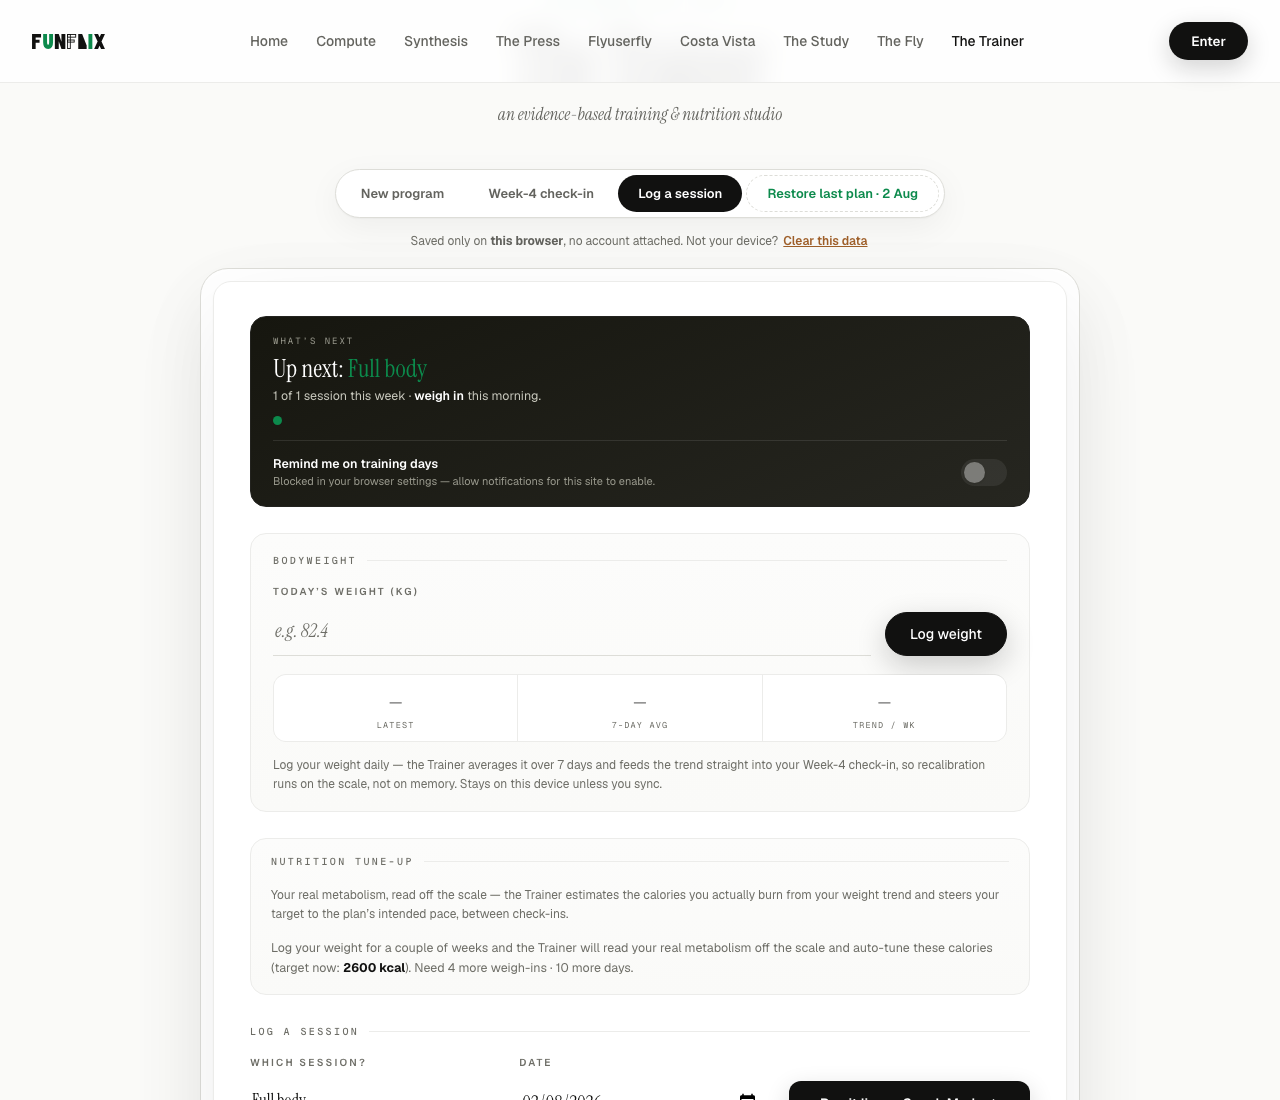
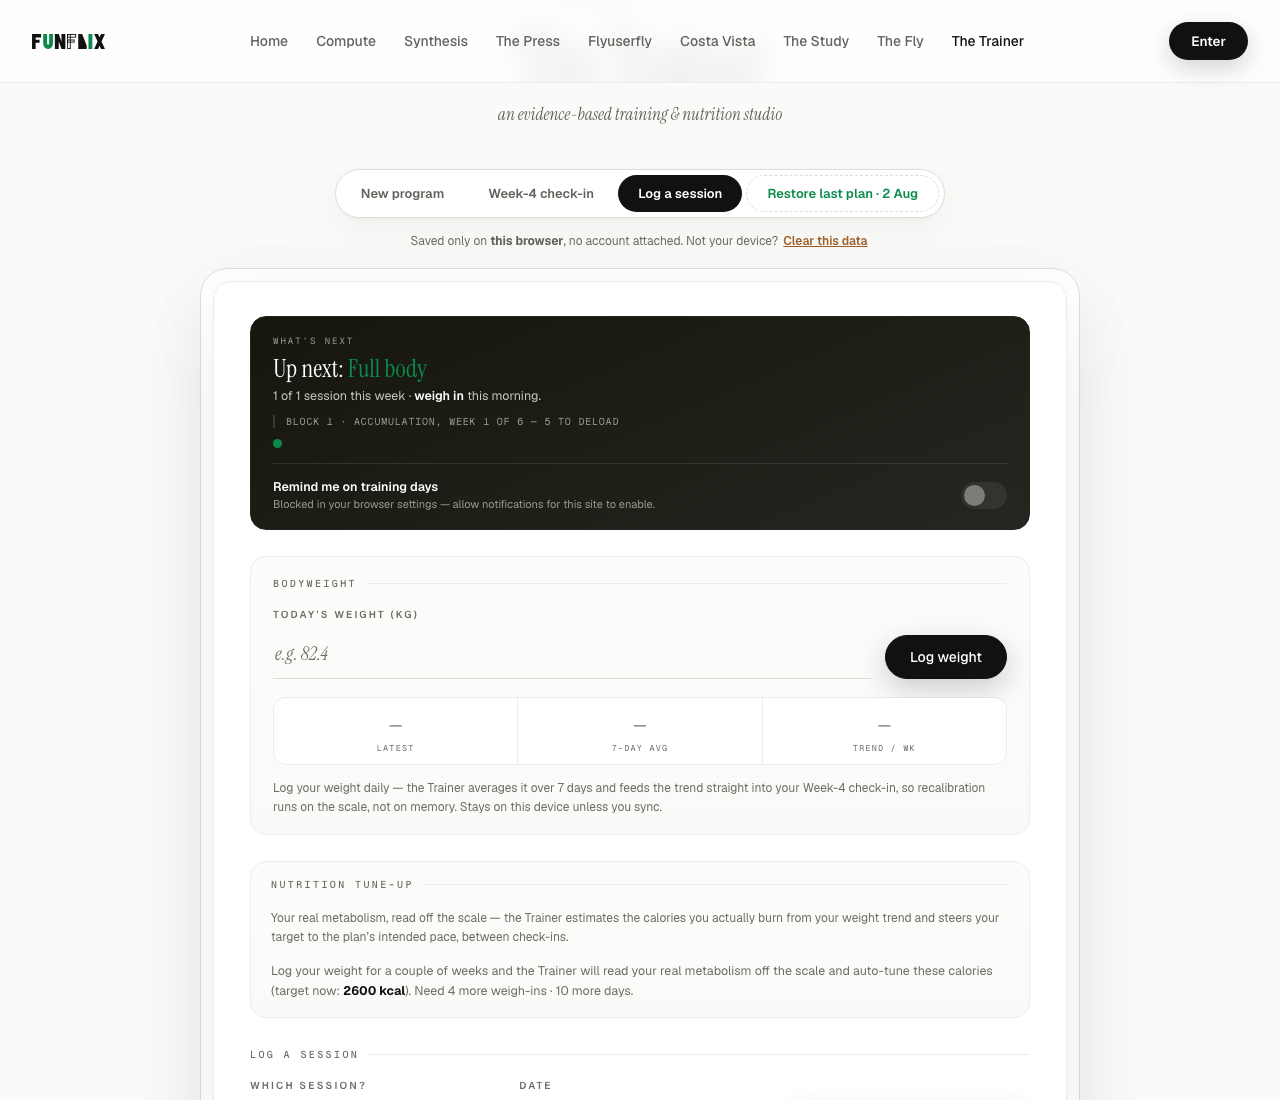
Sprint 37: interactive exercise swap + hardened deload-cadence parse
Interactive swap (Log form): the plan's static per-exercise substitution is now
actionable. swapMap()/effName()/setSwap() persist a per-(day, exercise) choice in
trainerSwaps; a "swap: <sub>" button toggles the logged movement, which carries
its OWN history + next-session target (dumbbell press != barbell bench) and
persists until swapped back.

Hardened deloadCadence(): tries several phrasings ("every N weeks", "every 4th
week", "after N weeks", bare "4-8 weeks", last-resort "N weeks") instead of only
the first — the periodization banner + deload card now read the plan's real
cadence instead of defaulting to 6 (SIMULATION brittle-regex).

Gates: qa/qa_swap_cadence.py ALL OK (swap persists/logs-under-sub/reverts;
cadence 5/4th/after-7/default-6); pytest 142; site_qa 32/32; next-target +
block-phase regressions ALL OK; screenshot reviewed.

diff --git a/templates/trainer.html b/templates/trainer.html
@@ -96,6 +96,9 @@
     .lg-rx { font-family: var(--monoX); font-size: 10px; letter-spacing: .08em; color: var(--accD); margin-left: 10px; }
     .lg-last { margin-top: 7px; font-family: var(--monoX); font-size: 10.5px; letter-spacing: .04em; color: var(--gray-2); }
     .lg-target { margin-top: 5px; font-family: var(--sans); font-size: 11.5px; line-height: 1.4; color: var(--accD); font-weight: 500; }
+    .lg-swap { margin-top: 6px; background: none; border: none; padding: 0; cursor: pointer; font-family: var(--monoX);
+      font-size: 10px; letter-spacing: .06em; color: var(--gray-2); text-decoration: underline; text-underline-offset: 2px; }
+    .lg-swap:hover { color: var(--accD); }
     .lg-sets { display: flex; flex-wrap: wrap; gap: 12px; margin-top: 10px; }
     .lg-set { display: flex; align-items: center; gap: 5px; }
     .lg-set input { width: 62px; text-align: center; }
@@ -1460,6 +1463,20 @@
     const b = $('bwLog'), old = b.textContent; b.textContent = 'Logged ✓';
     setTimeout(() => { b.textContent = old; }, 1400);
   });
+  // ── interactive swap: log the plan's own substitution when you can't do a lift ──
+  // The plan already names one substitution per exercise ("can't back squat →
+  // goblet squat"). This makes it actionable: swap for logging, and the swapped
+  // movement carries its OWN history/target (dumbbell press ≠ barbell bench). The
+  // choice persists per (day, exercise) so it sticks until you swap back.
+  const SWAP_KEY = 'trainerSwaps';
+  function swapMap() { try { return JSON.parse(localStorage.getItem(SWAP_KEY)) || {}; } catch (e) { return {}; } }
+  function swapKeyFor(day, ex) { return (day.day_label || '') + '::' + ex.name; }
+  function effName(day, ex) { return swapMap()[swapKeyFor(day, ex)] || ex.name; }
+  function setSwap(day, ex, name) {
+    const m = swapMap(), k = swapKeyFor(day, ex);
+    if (name && name !== ex.name) m[k] = name; else delete m[k];
+    try { localStorage.setItem(SWAP_KEY, JSON.stringify(m)); } catch (e) {}
+  }
   function renderLgList() {
     const saved = savedPlan();
     if (!saved) return;
@@ -1467,9 +1484,12 @@
     if (!day) { $('lgList').innerHTML = ''; return; }
     $('lgList').innerHTML = (day.exercises || []).map((ex, ei) => {
       const n = Math.max(1, Math.min(8, +ex.sets || 3));
+      const eff = effName(day, ex);
+      const swapped = eff !== ex.name;
+      const sub = String(ex.substitution || '').trim();
       // Strong's mechanic: show what you did last time as reference + as the
       // input placeholders, so "beat last week" is one glance, not memory
-      const last = lastEntryFor(ex.name);
+      const last = lastEntryFor(eff);
       const prev = last ? last.sets : [];
       let sets = '';
       for (let s = 0; s < n; s++) {
@@ -1482,14 +1502,29 @@
         ? '<div class="lg-last">Last · ' + new Date(last.at).toLocaleDateString('en-GB', { day: 'numeric', month: 'short' }) +
           ': ' + prev.map(x => esc((x.kg || '?') + '×' + (x.reps || '?'))).join(',  ') + '</div>'
         : '';
-      const tgt = nextTarget(ex, last);
+      const tgt = nextTarget({ name: eff, rep_range: ex.rep_range, sets: ex.sets }, last);
       const tgtLine = tgt ? '<div class="lg-target">→ ' + esc(tgt) + '</div>' : '';
-      return '<div class="lg-ex"><div class="lg-name">' + esc(ex.name) +
+      const swapBtn = sub
+        ? '<button type="button" class="lg-swap" data-swap="' + ei + '">' +
+          (swapped ? '↩ back to ' + esc(ex.name) : '⇄ swap: ' + esc(sub)) + '</button>'
+        : '';
+      return '<div class="lg-ex"><div class="lg-name">' + esc(eff) +
         '<span class="lg-rx">' + esc(ex.sets) + ' × ' + esc(ex.rep_range || '') + (ex.rpe_or_rir ? ' · ' + esc(ex.rpe_or_rir) : '') + '</span></div>' +
-        lastLine + tgtLine +
+        swapBtn + lastLine + tgtLine +
         '<div class="lg-sets">' + sets + '</div></div>';
     }).join('');
   }
+  $('lgList').addEventListener('click', e => {
+    const btn = e.target.closest('.lg-swap');
+    if (!btn) return;
+    const saved = savedPlan();
+    if (!saved) return;
+    const day = (saved.plan.workout_days || [])[+$('lDay').value || 0];
+    const ex = day && (day.exercises || [])[+btn.dataset.swap];
+    if (!ex) return;
+    setSwap(day, ex, effName(day, ex) === ex.name ? String(ex.substitution || '').trim() : null);
+    renderLgList();
+  });
   $('lDay').addEventListener('change', renderLgList);
   // progress is judged by estimated 1RM (Epley), not raw kg — 60 kg x 8 beats
   // 62.5 kg x 5, so double-progression rep gains count as the progress they are
@@ -1601,7 +1636,7 @@
         const repsIn = document.querySelector('#lgList input[data-ex="' + ei + '"][data-set="' + kgIn.dataset.set + '"][data-k="reps"]');
         if (kgIn.value.trim() || (repsIn && repsIn.value.trim())) sets.push({ kg: kgIn.value.trim(), reps: repsIn ? repsIn.value.trim() : '' });
       });
-      if (sets.length) entries.push({ name: ex.name, sets });
+      if (sets.length) entries.push({ name: effName(day, ex), sets });   // log the swapped movement if swapped
     });
     if (!entries.length) { errBox.textContent = 'Enter at least one set before saving.'; errBox.classList.add('show'); return; }
     errBox.classList.remove('show');
@@ -1734,10 +1769,21 @@
   function deloadCadence() {
     const sp = savedPlan();
     const p = (sp && sp.plan) || {};
-    const txt = (((p.progressive_overload || {}).deload) || '') + ' ' +
-                (((p.duration_and_paths || {}).review_points) || '');
-    const m = String(txt).match(/every\s+(\d+)\s*(?:to|-|–|or)?\s*\d*\s*weeks?/i);
-    return Math.min(8, Math.max(4, (m && parseInt(m[1], 10)) || 6));
+    const txt = String((((p.progressive_overload || {}).deload) || '') + ' ' +
+                       (((p.duration_and_paths || {}).review_points) || '')).toLowerCase();
+    // several phrasings, not just "every N weeks": "every 4th week", "after 5
+    // weeks", a bare "4–8 weeks", or a last-resort "6 weeks" (the old regex missed
+    // all but the first and silently defaulted to 6 — SIMULATION brittle-regex).
+    const pats = [
+      /every\s+(\d+)\s*(?:to|-|–|or)?\s*\d*\s*weeks?/,
+      /every\s+(\d+)(?:st|nd|rd|th)\s+week/,
+      /after\s+(\d+)\s+weeks?/,
+      /(\d+)\s*(?:-|–|to)\s*\d+\s*weeks?/,
+      /(\d+)\s*weeks?\b/,
+    ];
+    let n = null;
+    for (const re of pats) { const m = txt.match(re); if (m) { n = parseInt(m[1], 10); break; } }
+    return Math.min(8, Math.max(4, n || 6));
   }
   // where the lifter is in the mesocycle: accumulation weeks building to a deload,
   // then repeat. Orientation only (calendar weeks since the plan started); the

diff --git a/qa/qa_swap_cadence.py b/qa/qa_swap_cadence.py
@@ -1,0 +1,99 @@
+"""Sprint 37 — interactive exercise swap (Log form) + hardened deload-cadence
+parse. Offline (no API key).
+
+    python3 qa/qa_swap_cadence.py [base_url]   # default http://127.0.0.1:5099
+"""
+import json
+import os
+import sys
+import time
+
+from playwright.sync_api import sync_playwright
+
+BASE = sys.argv[1] if len(sys.argv) > 1 else "http://127.0.0.1:5099"
+SHOTS = os.path.join(os.path.dirname(os.path.abspath(__file__)), "shots")
+res = {}
+
+
+def swap_plan():
+    return {"at": int(time.time() * 1000),
+            "plan": {"type": "plan", "workout_days": [{"day_label": "Push", "exercises": [
+                {"name": "Barbell Bench Press", "sets": 3, "rep_range": "5-8", "rest_seconds": 150,
+                 "rpe_or_rir": "RIR 2", "substitution": "Dumbbell bench press"}]}],
+                "diet_plan": {"calorie_target_kcal": 2600, "protein_g": 180, "carbs_g": 300, "fat_g": 70}},
+            "safety": {"allergies": "", "injuries": "", "equipment": "gym", "diet": "omni",
+                       "dob": "1995-01-01", "sex": "Male"}}
+
+
+def cadence_plan(deload_text):
+    return {"at": int(time.time() * 1000) - 3600000,   # ~an hour in -> week 1, accumulation
+            "plan": {"type": "plan", "workout_days": [{"day_label": "Full body", "exercises": [
+                {"name": "Squat", "sets": 3, "rep_range": "5-8", "rest_seconds": 180}]}],
+                "progressive_overload": {"deload": deload_text},
+                "duration_and_paths": {"plan_duration_months": 3},
+                "diet_plan": {"calorie_target_kcal": 2600, "protein_g": 180, "carbs_g": 300, "fat_g": 70}},
+            "safety": {"allergies": "", "injuries": "", "equipment": "gym", "diet": "omni",
+                       "dob": "1995-01-01", "sex": "Male"}}
+
+
+def read_cadence(pg, text):
+    pg.evaluate("(s) => localStorage.setItem('trainerLastPlan', s)", json.dumps(cadence_plan(text)))
+    pg.evaluate("() => localStorage.setItem('trainerLogs', '[]')")
+    pg.reload(wait_until="networkidle")
+    pg.wait_for_timeout(250)
+    pg.click("#tabLog")
+    pg.wait_for_timeout(350)
+    return pg.inner_text("#nxBlock").lower() if pg.is_visible("#nxBlock") else ""
+
+
+def main():
+    with sync_playwright() as p:
+        b = p.chromium.launch()
+        pg = b.new_page(viewport={"width": 1280, "height": 950})
+        errs = []
+        pg.on("pageerror", lambda e: errs.append(str(e)))
+        pg.on("console", lambda m: errs.append(m.text) if m.type == "error" else None)
+        pg.goto(BASE + "/trainer", wait_until="networkidle")
+
+        # ── interactive swap ──
+        pg.evaluate("(s) => localStorage.setItem('trainerLastPlan', s)", json.dumps(swap_plan()))
+        pg.evaluate("() => localStorage.setItem('trainerLogs', '[]')")
+        pg.reload(wait_until="networkidle")
+        pg.wait_for_timeout(300)
+        pg.click("#tabLog")
+        pg.wait_for_timeout(400)
+        res["shows_original_name"] = "Barbell Bench Press" in pg.inner_text("#lgList .lg-name")
+        res["swap_btn_offers_sub"] = "Dumbbell bench press" in pg.inner_text("#lgList .lg-swap")
+        pg.click("#lgList .lg-swap")
+        pg.wait_for_timeout(250)
+        res["after_swap_shows_sub"] = "Dumbbell bench press" in pg.inner_text("#lgList .lg-name")
+        res["swap_persisted"] = pg.evaluate(
+            "() => (JSON.parse(localStorage.getItem('trainerSwaps')||'{}'))['Push::Barbell Bench Press'] === 'Dumbbell bench press'")
+        # log a set while swapped -> the entry is stored under the substitution name
+        pg.fill('#lgList input[data-ex="0"][data-k="kg"]', "30")
+        pg.fill('#lgList input[data-ex="0"][data-k="reps"]', "8")
+        pg.click("#logBtn")
+        pg.wait_for_timeout(400)
+        res["logged_under_sub"] = pg.evaluate(
+            "() => (JSON.parse(localStorage.getItem('trainerLogs')||'[]')[0]||{}).entries[0].name === 'Dumbbell bench press'")
+        pg.screenshot(path=os.path.join(SHOTS, "s37_swap.png"))
+        # swap back
+        pg.click("#lgList .lg-swap")
+        pg.wait_for_timeout(250)
+        res["revert_shows_original"] = "Barbell Bench Press" in pg.inner_text("#lgList .lg-name")
+
+        # ── hardened deload-cadence parse ──
+        res["cad_every5"] = "of 5" in read_cadence(pg, "Deload every 5 weeks (halve sets).")
+        res["cad_ordinal4"] = "of 4" in read_cadence(pg, "Take a deload every 4th week.")
+        res["cad_after7"] = "of 7" in read_cadence(pg, "Plan a deload after 7 weeks of hard training.")
+        res["cad_default6"] = "of 6" in read_cadence(pg, "Deload periodically as fatigue accumulates.")
+
+        res["page_errors"] = errs
+        b.close()
+
+
+main()
+print(json.dumps(res, indent=2))
+ok = all(v is True for k, v in res.items() if isinstance(v, bool)) and not res.get("page_errors")
+print("SWAP-CADENCE:", "ALL OK" if ok else "FAIL")
+sys.exit(0 if ok else 1)

diff --git a/docs/trainer/SPRINT_37.md b/docs/trainer/SPRINT_37.md
@@ -1,0 +1,34 @@
+# Sprint 37 — Interactive exercise swap + hardened deload-cadence parse
+
+**Why:** the plan already names one substitution per exercise, but it was static
+text. A real session needs it actionable ("the squat rack's taken → log goblet
+squats"). Plus the deload-cadence parser was brittle (SIMULATION) — it only caught
+"every N weeks" and silently defaulted everything else to 6.
+
+## What shipped (`templates/trainer.html`, client-only)
+### Interactive swap (Log form)
+- `swapMap()` / `effName(day, ex)` / `setSwap()` persist a per-(day, exercise)
+  choice in `trainerSwaps`.
+- Each exercise with a `substitution` gets a "⇄ swap: <sub>" button; swapped, it
+  shows "↩ back to <original>". The Log form renders under the effective name,
+  logs under it, and — importantly — the swapped movement carries its **own**
+  history and next-session target (dumbbell press ≠ barbell bench). Persists until
+  swapped back.
+
+### Hardened deload cadence
+- `deloadCadence()` now tries several phrasings — "every N weeks", "every 4th
+  week", "after N weeks", a bare "4–8 weeks", and a last-resort "N weeks" — instead
+  of only the first, so the periodization banner and deload card read the plan's
+  real cadence rather than defaulting to 6.
+
+## Gates
+- `qa/qa_swap_cadence.py` **ALL OK** (offline): swap shows the sub, persists, logs
+  the set under the sub name, reverts; cadence parses 5 / "4th" / "after 7" / and
+  defaults to 6 when no number is given.
+- pytest **142** (client-only). site_qa **32/32**. `qa_next_target.py` +
+  `qa_block_phase.py` regressions **ALL OK** (both touch the same code paths).
+  Screenshot reviewed — swapped lift shows its own "Last" + target.
+
+## Outcome (closed)
+Substitutions are now a live tool, and the deload-cadence parse is robust — closing
+the SIMULATION brittle-regex item. Next: Sprint 38 (Producer review + luxury sweep).
